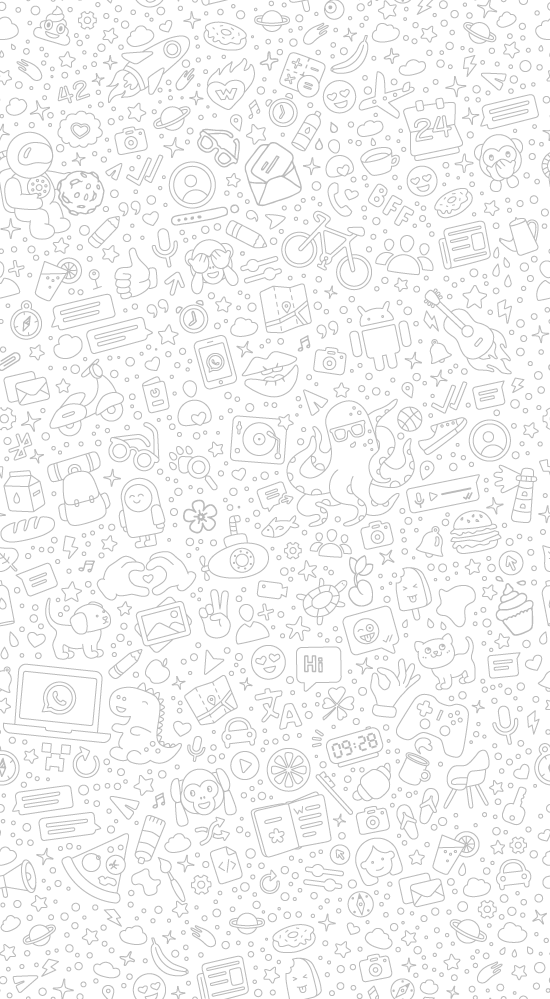
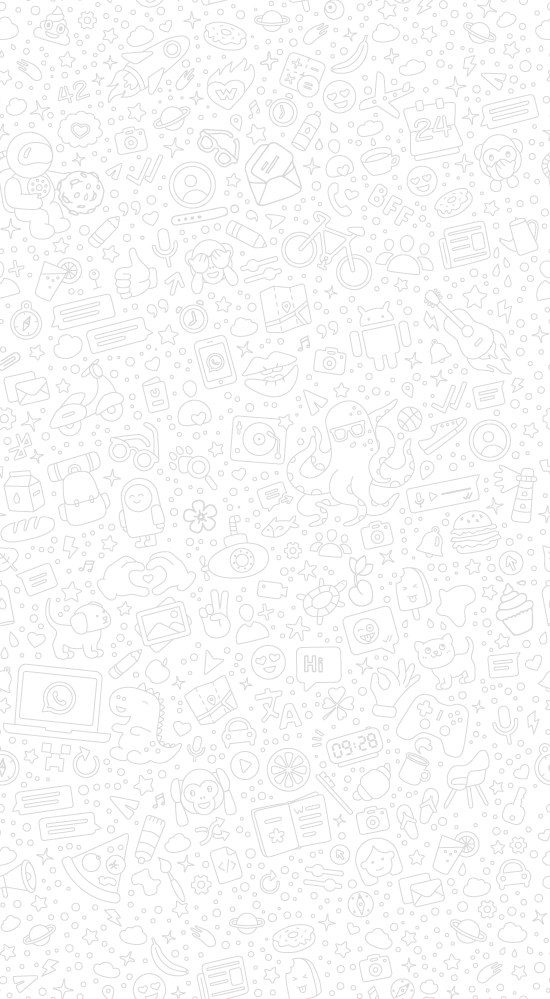
ADD: complete project to deploy

diff --git a/src/App.css b/src/App.css
@@ -3,7 +3,6 @@
 
   max-width: 600px;
   margin: 0 auto;
-  /* padding: 30px; */
   border-radius: 10px;
   margin-top: 50px;
 
@@ -61,7 +60,7 @@ button {
 }
 
 .login {
-  background: url(./bg-login2.png),#FCF4EC00;
+  background: url(./bg-login.png),#FCF4EC00;
   height: 400px;
   width: 100%;
   background-repeat: no-repeat; 
@@ -74,38 +73,11 @@ button {
   transition: 1.5s;
 }
 .login:hover {
-  /* animation: 10s  bgcolor; */
-  background: url(./bg-login2.png),#FCF4EC;
+  background: url(./bg-login.png),#FCF4EC;
   background-repeat: no-repeat; 
   background-size: cover;
 }
-@keyframes bgcolor {
-  0%{
-    background: url(./bg-login2.png), #FCF4EC;
-    background-size: cover;
-  }
-  20%{
-    background: url(./bg-login2.png), #ffc1077a;
-    background-size: cover;
-  }
-  40%{
-    background: url(./bg-login2.png), #ff990091;
-    background-size: cover;
-  }
-  60%{
-    background: url(./bg-login2.png), #acf855c1;
-    background-size: cover;
-  }
-  80%{
-    background: url(./bg-login2.png), #03a8f4c2;
-    background-size: cover;
-  }
-  100%{
-    background: url(./bg-login2.png), #8154cec9;
-    background-size: cover;
-  }
 
-}
 .login button {
   margin-bottom: 50px;
   background-color: #48C658;
@@ -126,7 +98,7 @@ button {
 }
 
 .messages {
-  background: url(./bg-chat2.png),#FCF4EC;
+  background: url(./bg-chat.png),#FCF4EC;
   width: 100%;
   background-size: contain;
   border-radius: 10px;
@@ -285,4 +257,19 @@ button {
 ::-webkit-scrollbar-thumb {
   background: #008169;
   border-radius: 15px;
+}
+
+/* author */
+p.author {
+  display: flex;
+  justify-content: center;
+  margin-top: 3%;
+  gap: 7px;
+  position: relative;
+  color: #fff;
+}
+p.author a {
+  text-decoration: none;
+  font-weight: 500;
+  color: #fff;
 }

diff --git a/index.html b/index.html
@@ -2,12 +2,18 @@
 <html lang="en">
   <head>
     <meta charset="UTF-8" />
-    <link rel="icon" type="image/svg+xml" href="/src/favicon.svg" />
+    <meta property="og:type" content="website">
+    <meta property="og:url" content="">
+    <meta property="og:title" content="WhatsApp Clone React & Supabase">
+    <meta property="og:description" content="Reactjs and Supabase Whatsapp clone project">
+    <meta property="og:image" content="hhttps://res.cloudinary.com/dqd5x0s7w/image/upload/v1675480454/github/wp-main_vztiqu.png">
+    <link rel="icon" type="image/svg+xml" href="/src/wp-icon.png" />
     <meta name="viewport" content="width=device-width, initial-scale=1.0" />
-    <title>Vite App</title>
+    <title>WhatsApp Clone React & Supabase</title>
   </head>
   <body>
     <div id="root"></div>
     <script type="module" src="/src/main.jsx"></script>
+    <p class="author">🪐 by <a href="https://github.com/garu2" target="_blank">GaryAT</a></p>
   </body>
 </html>

diff --git a/src/components/Messages.jsx b/src/components/Messages.jsx
@@ -1,20 +1,19 @@
 import { supabase } from "../supabaseClient";
 import { useEffect, useRef, useState } from 'react'
+
 import Message from "./Message";
 import SendMessage from "./SendMessage";
 import Header from "./Header";
 
-//import {useChatScroll} from "../hooks/useChatScroll"
 const Messages = () => {
     const [messages, setMessages] = useState([]);
     const scroll = useRef();
-    //const ref = useChatScroll(messages)
 
     const callSupabase = async () => {
         const {data} = await supabase.from('messages').select('*')
         setMessages(data);
     }
-    useEffect( () =>{
+    useEffect( () => {
         callSupabase()
     }, [])
     
@@ -45,8 +44,6 @@ const Messages = () => {
                 ))
             }
             </div>
-            
-            <br />
             <SendMessage scroll={scroll}/>
             <span ref={scroll}></span>
         </section>

diff --git a/src/components/SendMessage.jsx b/src/components/SendMessage.jsx
@@ -9,7 +9,6 @@ const SendMessage = ({ scroll }) => {
     const sendMessage = async (e) => {
         e.preventDefault();
         if (newMessage !== "") {
-            //console.log('message: ', newMessage);
             const insert = await supabase.from('messages').insert({ 
                 content: newMessage,
                 email: user
@@ -21,7 +20,6 @@ const SendMessage = ({ scroll }) => {
     }
     const getSeccion = async () => {
         const {data} = await supabase.auth.getSession();
-        //console.log('secion33: ', data.session.user.email);
         setUser(data.session.user.email);
     }
     useEffect( () =>{

diff --git a/src/components/Message.jsx b/src/components/Message.jsx
@@ -4,16 +4,15 @@ import { supabase } from "../supabaseClient";
 
 const Message = ({message, date, email}) => {
     const [user, setUser] = useState("")
-    //console.log('email: ', email);
 
     const getSeccion = async () => {
         const {data} = await supabase.auth.getSession();
-        //console.log('secionMesage: ', data.session.user.email);
         setUser(data.session.user.email);
     }
     useEffect( () =>{
         getSeccion()
     }, [])
+    
     return (
         <div className={`card ${user===email?"me":""}`}>
             <p>{message}</p>

diff --git a/src/components/Header.jsx b/src/components/Header.jsx
@@ -9,11 +9,9 @@ import { getAvatarN } from "../helpers/getAvatarN";
 const Header = () => {
     const [user, setUser] = useState("juan")
     const [open, setOpen] = useState(false)
-    //const avatarNumber = Math.floor(Math.random() * 10);
     
     const getSeccion = async () => {
         const {data} = await supabase.auth.getSession();
-        //console.log('secion33: ', data.session.user.email);
         setUser(data.session.user.email);
     }
     useEffect( () =>{

diff --git a/src/supabaseClient.js b/src/supabaseClient.js
@@ -1,5 +1,5 @@
 import { createClient } from '@supabase/supabase-js'
 
-const supabaseUrl = 'https://vwlqtsuopotvmwwsrlfa.supabase.co'
+const supabaseUrl = 'https://pwaqksaemuprrnkmmhav.supabase.co'
 const supabaseKey = import.meta.env.VITE_SUPABASE_KEY
 export const supabase = createClient(supabaseUrl, supabaseKey)

diff --git a/src/helpers/getAvatarN.js b/src/helpers/getAvatarN.js
@@ -1,9 +1,6 @@
 
-
 export const getAvatarN = (email ) => {
     const array = email.split("");
     const first = array[0].charCodeAt(0) - 65;
-    //console.log("first: ", first);
-    //console.log("first22: ",String(first)[1]); 
-    return String(first)[1];
+    return String(first)[0];
 }

diff --git a/src/components/Login.jsx b/src/components/Login.jsx
@@ -13,7 +13,6 @@ const Login = () => {
 
     return (
         <section className="login">
-            {/* <button onClick={handleLogout}>Cerrar secion</button> */}
             <button onClick={handleLogin}>Iniciar </button>
         </section>
     );

diff --git a/README.md b/README.md
@@ -1,0 +1,29 @@
+#✅ Whatsapp Clone React & Supabase
+![image](https://res.cloudinary.com/dqd5x0s7w/image/upload/v1675480454/github/wp-main_vztiqu.png)
+
+## 🚀DEMO
+ [Deploy]()
+ 
+## 💻Tutorial
+<a href='https://youtu.be/' target='_blank'>
+    <img width='30%' src='https://img.youtube.com/vi/mqdefault.jpg' alt='Tweet Generator' />
+</a>
+
+## 📦Getting Started
+```
+git clone https://github.com/garu2/Whatsapp-Clone-React-Supabase.git
+```
+```
+cd Whatsapp-Clone-React-Supabase
+```
+```
+npm install
+```
+```
+npm run dev
+```
+## ⚙Tecnologies
+* [React 18](https://reactjs.org/)
+* [Vercel](https://vercel.com/)
+* [Supabase](https://app.supabase.com/)
+
